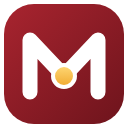
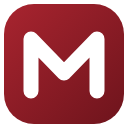
feat(extension): 点击连接后立即同步一次；图标去掉金色点；连接页回到前台时检测已在别处完成的连接并进入控制台

Changed region(s): [[0.1875, 0.2188, 0.8125, 0.75], [0.7188, 0.2812, 0.8438, 0.7812], [0.1562, 0.2812, 0.2812, 0.7812]]

diff --git a/web/src/pages/Connect.tsx b/web/src/pages/Connect.tsx
@@ -26,6 +26,47 @@ function switchTarget(e: unknown): string | null {
   return typeof name === 'string' ? name : '';
 }
 
+/** `connectedAt` of a working connection, or null. */
+const activeSince = (me: Me | null): string | null =>
+  me?.credential?.status === 'active' ? me.credential.connectedAt : null;
+
+/**
+ * Calls `onConnected` when the page regains focus and the account is connected now but was not when the page opened
+ * (or was connected again since): the sign-in completed in another tab or through the extension.
+ */
+function useConnectedElsewhere(onConnected: () => void): void {
+  const latest = useRef(onConnected);
+  latest.current = onConnected;
+  useEffect(() => {
+    // the baseline: how the account stood when this page opened (undefined until known)
+    let seen: string | null | undefined;
+    getMe(false).then(
+      (me) => {
+        seen = activeSince(me);
+      },
+      () => {
+        seen = null;
+      },
+    );
+    const check = () => {
+      if (seen === undefined || document.visibilityState !== 'visible') return;
+      getMe(false).then(
+        (now) => {
+          const since = activeSince(now);
+          if (since !== null && since !== seen) latest.current();
+        },
+        () => {},
+      );
+    };
+    window.addEventListener('focus', check);
+    document.addEventListener('visibilitychange', check);
+    return () => {
+      window.removeEventListener('focus', check);
+      document.removeEventListener('visibilitychange', check);
+    };
+  }, []);
+}
+
 interface PendingSwitch {
   body: ConnectRequest;
   name: string;
@@ -81,6 +122,13 @@ export function ConnectPage() {
       .catch((e: unknown) => setCodeError(e))
       .finally(() => setCodeBusy(false));
   }, [connectOrAsk, returnParam]);
+
+  // Connecting usually finishes in another tab (the extension opens the console there): when this page comes back
+  // into view, an account that is now connected (or connected anew) leaves the connect page.
+  useConnectedElsewhere(() => {
+    toast.show(t('connect.connected'));
+    navigate(takeReturn(returnParam), { replace: true });
+  });
 
   if (codeBusy) {
     return (

diff --git a/extension/background.js b/extension/background.js
@@ -133,6 +133,10 @@ const attemptConnect = singleFlight(async () => {
   }
   await openInTab(buildConnectUrl(serviceUrl, code), pending?.tabId);
   await setResult('connect_opened');
+  // sync once right away: an account the service already knows is updated even before the console page finishes;
+  // a new account is created by that page, so its "unknown" answer here is not a failure
+  const synced = await refresh.runFresh();
+  if (synced?.result === 'unknown_user') await setResult('connect_opened');
   return { ok: true };
 });
 
